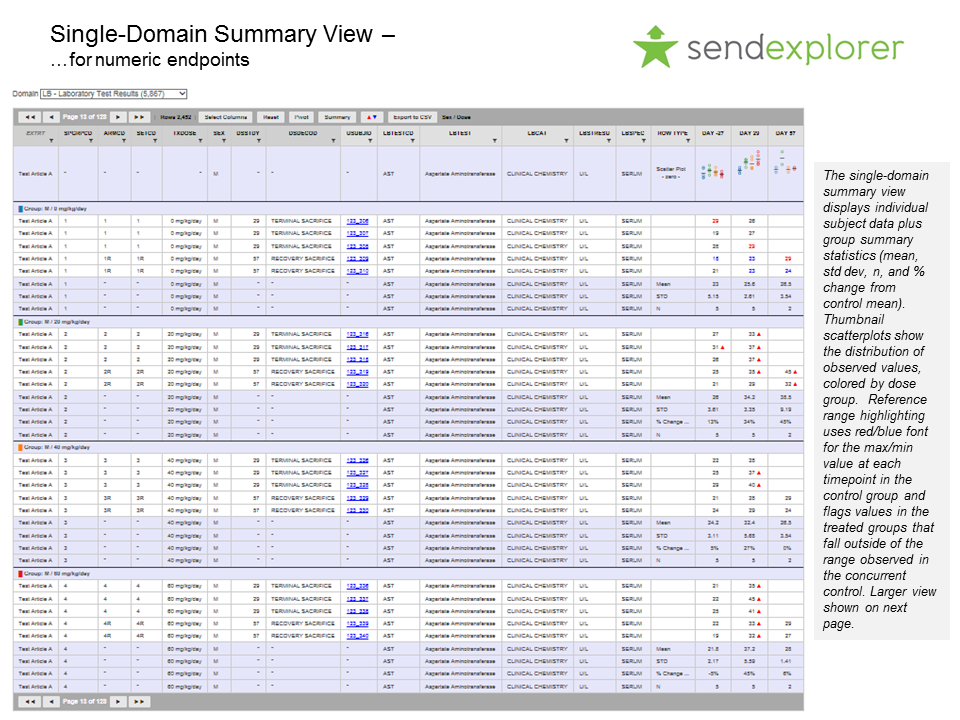
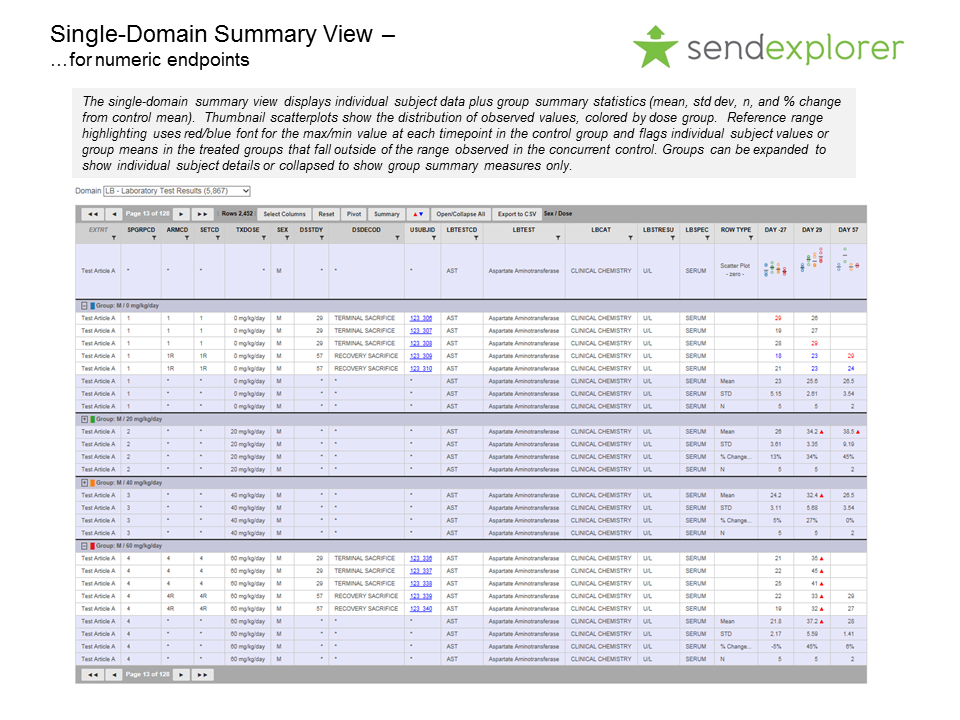
update for 4.1

diff --git a/sendexplorer.md b/sendexplorer.md
@@ -94,7 +94,7 @@ layout: default
 <p>&nbsp;</p>
 
 Integrated Nonclinical Development Solutions, Inc. (INDS, Inc.) is
-pleased to announce the release of **SEND Explorer™Product Family
+pleased to announce the release of **SEND Explorer® Product Family
 v4.0**.  These validated, web-based applications were designed by
 scientists to provide advanced viewing, data summarization, and
 visualization capabilities for study data produced in SEND (Standard for
@@ -117,24 +117,49 @@ New features for v4.0 include the following:
     communicate patterns and trends in histopathology data across
     studies
 
-**SEND Explorer Product Family v4.0** provides a scalable solution to
+Integrated Nonclinical Development Solutions, Inc. (INDS, Inc.) is
+pleased to announce the release of **SEND Explorer® Product
+Family v4.1**.  These validated, web-based applications were designed by
+scientists to provide advanced viewing, data summarization, and
+visualization capabilities for study data produced in SEND (Standard for
+Exchange of Nonclinical Data) format.  
+
+New features for the v4.1 release include the following:
+
+-   Enhancements to Summary View giving user option to display group
+    summary statistics with or without accompanying subject details.
+    Group means outside of the range of concurrent control group
+    are flagged.
+
+-   Multiple improvements to the Subject View, including ability to
+    produce adjacent visualizations for male and female groups, enhanced
+    filtering capabilities and ability to select endpoints associated
+    with various Toxicity Profiles
+
+-   Allow organizations to include their own branding of SEND Explorer
+    and specify their own Toxicity Profiles.
+
+-   Modifications to improve system performance for very large
+    (e.g., carcinogenicity) studies
+
+**SEND Explorer® Product Family v4.1** provides a scalable solution to
 allow your organization to leverage its investment in SEND data. **SEND
-Explorer** provides single-study functionality including the ability to
+Explorer®** provides single-study functionality including the ability to
 review/QC SEND datasets prior to submission to FDA, generate group
 summarizations with scientifically-relevant visualizations to identify
 trends and patterns within a study, and review all data for a single
 subject to compare vs other subjects in its group or vs control
 subjects, to identify patterns within or across data types, at a given
-timepoint and over time. **SEND Explorer Plus** includes a database to
+timepoint and over time. **SEND Explorer® Plus** includes a database to
 extend SEND Explorer functionality to the multi-study environment and
 provides powerful yet intuitive cross-study querying capabilities and
-multi-study visualizations. **SEND Explorer Warehouse** provides a data
+multi-study visualizations. **SEND Explorer® Warehouse** provides a data
 warehouse infrastructure that will enable your organization to combine
 legacy/non-SEND data sources with your SEND data, to perform advanced
 term reconciliation functionality, or to refresh internal data sources
 on a schedule.
 
-**SEND Explorer™** features include:
+**SEND Explorer®<** features include:
 
 -   A robust data grid that merges subject and group metadata with
     associated results
@@ -160,7 +185,8 @@ on a schedule.
 -   Hyperlink to multi-domain subject view with tabular and graphical
     displays of data
 
-**SEND Explorer Plus™** includes all of the above features as well as:
+**SEND Explorer® Plus** includes all of the above features as
+well as:
 
 -   Straight-forward load interface and study dashboard
 
@@ -179,8 +205,9 @@ on a schedule.
 -   Multi-study Treemap visualization facilitating recognition and
     communication of patterns in histopathology findings.
 
-**SEND Explorer Warehouse™** includes all of the above features as well
-as:
+**  
+SEND Explorer® Warehouse** includes all of the above features
+as well as:
 
 -   Administrative tool to allow term reconciliation, to view/modify
     mapped terms, to specify unit transformations, and to identify
@@ -197,15 +224,9 @@ as:
 
 -   Ability to load data on-demand or according to a specified schedule
 
-Products in the **SEND Explorer Product Family v4.0** are now available
-for purchase. We offer a site licensing model that does not require
-named users nor implement a per-study fee. INDS can host the application
-for you or you can host it yourself. Ask us about our pilot evaluation
-program!
+Products in the **SEND Explorer® Product Family v4.1** are now available
+for purchase. INDS has recently partnered with Instem for sales and
+support services. Please contact INDS at <sendexperts@inds-inc.com> or
+Instem at <submit@instem.com> for more information on any of these tools
+or to request a demo.
 
-The SEND Explorer Product Family also includes **SEND Explorer
-Express™** (a no cost SEND viewing tool with restricted functionality).
-Use SEND Explorer Express to review single-study functionality for two
-sample datasets, or upload and review your own SEND dataset. Please
-contact <sendexperts@inds-inc.com> for more information on any of these
-tools.
